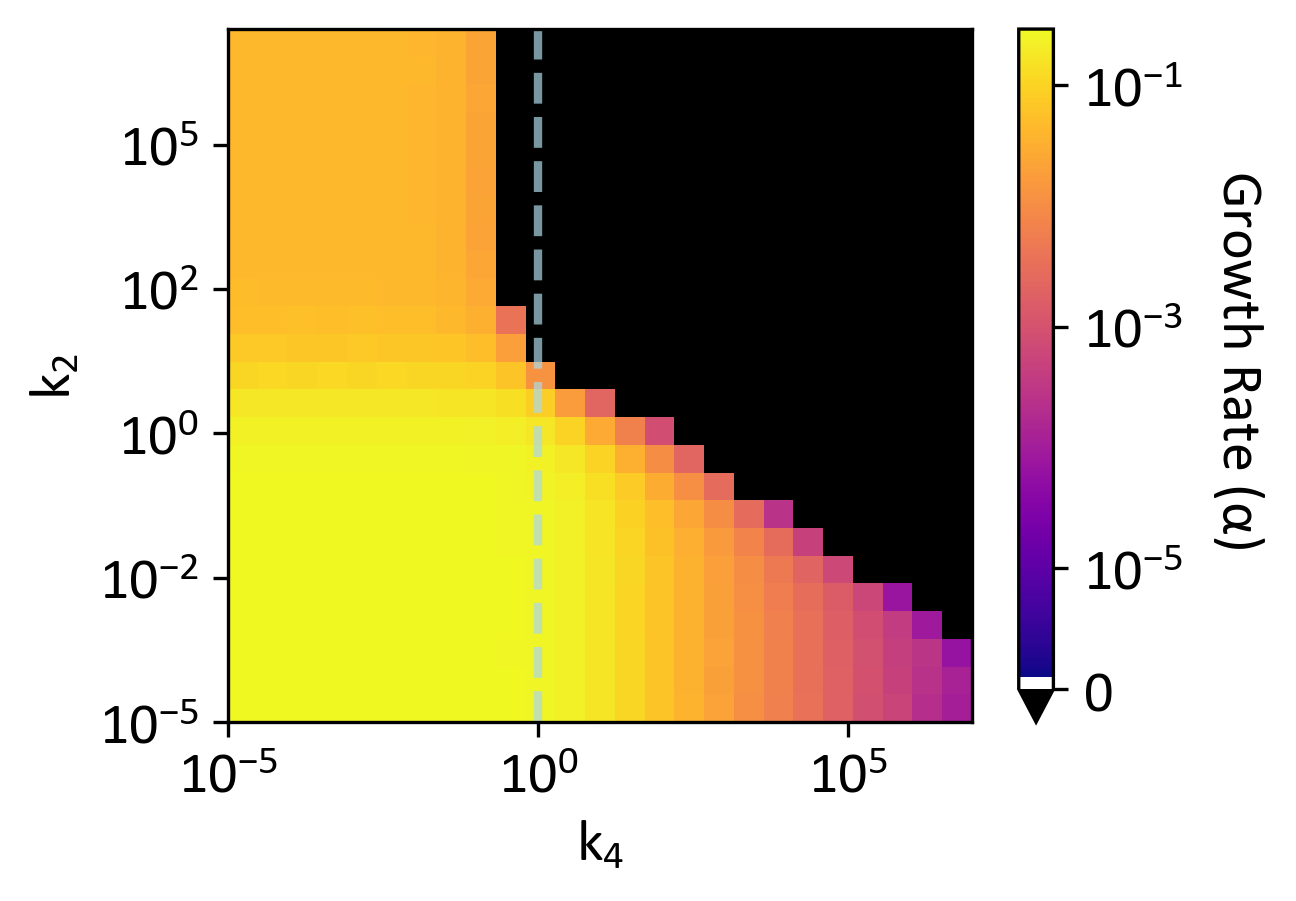
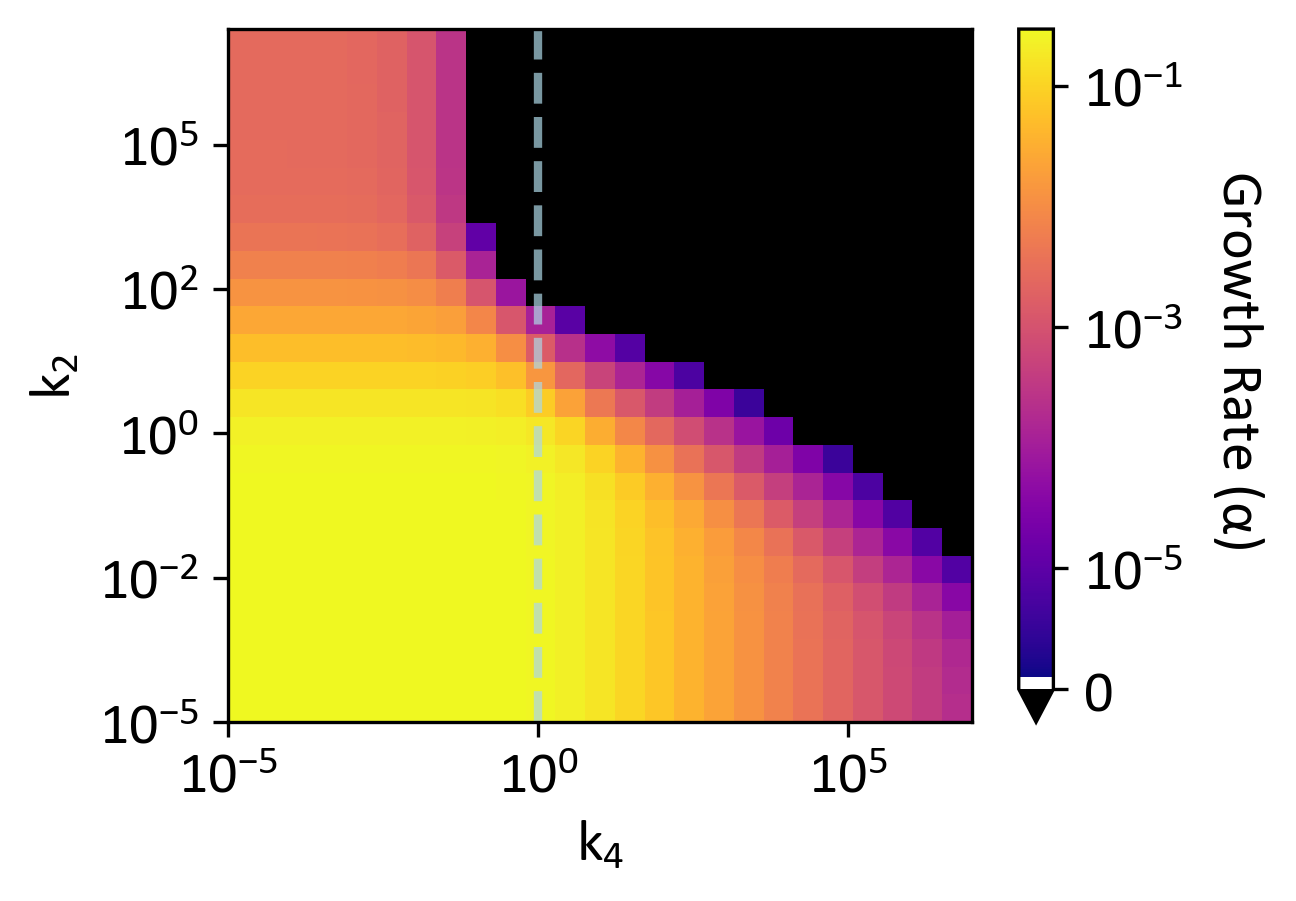
test thermodyn

Changed region(s): [[0.1543, 0.0311, 0.7716, 0.7458], [0.8642, 0.3418, 0.9259, 0.3729]]

diff --git a/simulations/try.py b/simulations/try.py
@@ -1,24 +1,44 @@
+# TEST CODE TO SEE RESULTS USING THE DETERMINISTIC APPROACH
 # TO GENERATE THE PKL FILES RUN "k_sweep_2d_pkl_generator.py"
 
 import numpy as np
 import pickle
 import multiprocessing as mp
 import os
-import sys
 import time
+import warnings
+from scipy.integrate import solve_ivp
 
 current_dir = os.path.dirname(os.path.abspath(__file__))
 project_root = os.path.dirname(current_dir)
-if project_root not in sys.path:
-    sys.path.append(project_root)
 
-from src.fun_gilles import *
+# --- 1. ODE SYSTEM ---
 
-# --- 1. WORKER FUNCTIONS ---
+def odes_intermediates(t, X, K_intermediates, fi):
+    """Deterministic system of ODEs for the minimal autocatalytic cycle."""
+    V, ab, cd, acd, cab = X
+    
+    # Food concentrations (constant)
+    a, b, c, d = 1.0, 1.0, 1.0, 1.0
+    k1, k2, k3, k4, k5, k6, k7, k8 = K_intermediates
+    
+    # Volume derivative
+    dVdt = (V / fi) * (k3 * b * acd + k7 * d * cab - k4 * ab * cd - k8 * ab * cd)
+    
+    # Species derivatives
+    dabdt = k3 * b * acd + k6 * cab + k7 * cab * d - k4 * ab * cd - k5 * ab * c - k8 * cd * ab - (ab / V) * dVdt
+    dcddt = k3 * b * acd + k7 * cab * d + k2 * acd - k4 * ab * cd - k1 * a * cd - k8 * cd * ab - (cd / V) * dVdt
+    dacddt = k4 * ab * cd + k1 * a * cd - k3 * b * acd - k2 * acd - (acd / V) * dVdt
+    dcabdt = k5 * ab * c + k8 * cd * ab - k6 * cab - k7 * cab * d - (cab / V) * dVdt
+    
+    return [dVdt, dabdt, dcddt, dacddt, dcabdt]
 
-def _get_alpha_from_vectors(times, volumes, values_used= None):
+
+# --- 2. WORKER FUNCTIONS ---
+
+def _get_alpha_from_vectors(times, volumes, values_used=None):
     """Calculates alpha and R^2 directly from vectors to save memory."""
-    if len(volumes) < 10:
+    if len(volumes) < 10 or np.any(volumes <= 0):
         return 0.0, 0.0
         
     start_idx = round(len(volumes) / 5) if values_used is None else 0
@@ -42,9 +62,9 @@ def _get_alpha_from_vectors(times, volumes, values_used= None):
     return m_fit, R_squared
 
 def run_2d_simulation(args):
-    """Worker: Runs simulation and IMMEDIATELY extracts Alpha/R2 to save RAM."""
-    (row_idx, col_idx, rep_id, k_y_val, k_x_val, k_y_index, k_x_index, 
-     abundances_init, m, k_types, base_k, c, V_init, iterations, c_reactants, threshold) = args
+    """Worker: Runs deterministic simulation and extracts Alpha/R2."""
+    (row_idx, col_idx, k_y_val, k_x_val, k_y_index, k_x_index, 
+     X_init, base_k, fi, t_span, t_eval) = args
     
     # Create a fresh copy of the kinetic constants and inject the sweep values
     k_local = base_k.copy()
@@ -52,56 +72,73 @@ def run_2d_simulation(args):
     k_local[k_x_index] = k_x_val
     
     try:
-        a, t, v = gillespieProtocell(
-            abundances_init, m, k_types, k_local, c, V_init, iterations, c_reactants, threshold
-        )
+        # Ignore RuntimeWarnings for zero division or overflow during ODE solving
+        with warnings.catch_warnings():
+            warnings.simplefilter("ignore")
+            
+            # Solve the ODE using the BDF method (best for stiff chemical systems)
+            res = solve_ivp(
+                odes_intermediates, 
+                t_span, 
+                X_init, 
+                method='BDF', 
+                t_eval=t_eval, 
+                args=(k_local, fi)
+            )
+            
+        if not res.success:
+            return (row_idx, col_idx, 0.0, 0.0)
+
+        t = res.t
+        v = res.y[0] # Volume is the first variable in the X array
+        
         alpha, r2 = _get_alpha_from_vectors(t, v, values_used=1)
         
-        return (row_idx, col_idx, rep_id, alpha, r2)
+        return (row_idx, col_idx, alpha, r2)
         
     except Exception as e:
-        # If it fails (e.g. probability 0), return 0 alpha and 0 R2
-        return (row_idx, col_idx, rep_id, 0.0, 0.0)
+        # If integration fails, return 0
+        return (row_idx, col_idx, 0.0, 0.0)
 
 
-# --- 2. MAIN EXECUTION ---
+# --- 3. MAIN EXECUTION ---
 
 def main():
-    print("Initializing 2D Parameter Sweep...")
+    print("Initializing Deterministic 2D Parameter Sweep...")
     
     # --- SETUP SIMULATION PARAMETERS ---
-    file_path = os.path.join(project_root, 'examples', 'reactions_autocat.txt')
-    reactions = read_file(file_path)
-    header = get_header(file_path)
-    species = obtain_species(reactions)
-    c = c_matrix(reactions, species, header)
-    c_reactants = reactants(reactions, species, header)
-    k_types = reactions[:, -1]
-    m = reactions.shape[0]
+    # Initial conditions from TFM (V0=100, [ab]0=0.5, [cd]0=0.5)
+    V_init = 100.0
+    ab_init = 0.5
+    cd_init = 0.5
+    acd_init = 0.0
+    cab_init = 0.0
     
-    # Base parameters
+    X_init = [V_init, ab_init, cd_init, acd_init, cab_init]
+    
+    # fi calculation: Sum of initial concentrations
+    fi = ab_init + cd_init + acd_init + cab_init
+    
+    # Base parameters (k1 through k8)
     base_k = [1.0] * 8
-    V_init = 1000.0
-    iterations = int(1e6)
-    threshold = None
     
-    # Standard initial conditions for autocat
-    abundances_init = np.zeros((1, len(species)))
-    abundances_init[0, :4] = 1.0 * V_init 
-    abundances_init[0, 4] = 1.0 * V_init # ab0 = 1
+    # Time limits for integration
+    t_span = (0, 500)
+    t_eval = np.linspace(t_span[0], t_span[1], 1000)
     
     # --- DEFINE THE 2D SWEEP ---
     k_change = np.logspace(-5, 7, 25)
-    replicates_per_condition = 1
     
     # Target indices in the 'k' array 
-    # for k2 and k4 keep the following lines
+    # For k2 and k4 (index 1 and 3)
     k_y_index = 1 
     k_x_index = 3 
-    # for k1 and k3 keep the following lines
+    
+    # For k1 and k3 uncomment below:
     # k_y_index = 0
     # k_x_index = 2    
-    prefix = f"sweep_k{k_y_index}_k{k_x_index}"
+    
+    prefix = f"sweep_k{k_y_index}_k{k_x_index}_deterministic"
     out_dir = os.path.join(project_root, 'data_archive')
     os.makedirs(out_dir, exist_ok=True)
     
@@ -119,42 +156,35 @@ def main():
     tasks = []
     for row_idx, k_y_val in enumerate(k_change):
         for col_idx, k_x_val in enumerate(k_change):
-            for rep in range(replicates_per_condition):
-                task_id = (row_idx, col_idx, rep)
-                
-                # Only add to tasks if it hasn't been done yet
-                if task_id not in completed_tasks:
-                    task = (row_idx, col_idx, rep, k_y_val, k_x_val, k_y_index, k_x_index, 
-                            abundances_init, m, k_types, base_k, c, V_init, iterations, c_reactants, threshold)
-                    tasks.append(task)
+            
+            task_id = (row_idx, col_idx)
+            
+            if task_id not in completed_tasks:
+                task = (row_idx, col_idx, k_y_val, k_x_val, k_y_index, k_x_index, 
+                        X_init, base_k, fi, t_span, t_eval)
+                tasks.append(task)
                 
     total_new_tasks = len(tasks)
     print(f"Total simulations remaining to run: {total_new_tasks}")
     
     if total_new_tasks > 0:
-        # --- EXECUTE IN PARALLEL (Optimized for OS responsiveness) ---
-        # Leave at least 2 cores free for your operating system so it doesn't freeze.
+        # --- EXECUTE IN PARALLEL ---
         num_cores = max(1, mp.cpu_count() - 1) 
         print(f"Firing up {num_cores} CPU cores ")
         start_time = time.time()
         
         with mp.Pool(processes=num_cores) as pool:
-            # chunksize=10 tells Python to hand out jobs in batches rather than 1 by 1.
-            # This drastically reduces overhead and stops your computer from choking on communication.
-            for i, result in enumerate(pool.imap_unordered(run_2d_simulation, tasks, chunksize=10)):
-                row_idx, col_idx, rep_id, alpha, r2 = result
+            for i, result in enumerate(pool.imap_unordered(run_2d_simulation, tasks, chunksize=5)):
+                row_idx, col_idx, alpha, r2 = result
                 
-                # Save to our dictionary
-                completed_tasks[(row_idx, col_idx, rep_id)] = (alpha, r2)
+                completed_tasks[(row_idx, col_idx)] = (alpha, r2)
                 
-                # Save the checkpoint to disk every 100 runs so we don't lose progress if it crashes
-                if (i + 1) % 100 == 0:
+                if (i + 1) % 50 == 0:
                     percent = ((i+1) / total_new_tasks) * 100
                     print(f"Completed {i + 1}/{total_new_tasks} remaining runs ({percent:.1f}%)...")
                     with open(checkpoint_file, "wb") as f:
                         pickle.dump(completed_tasks, f)
         
-        # Final checkpoint save when all tasks are done
         with open(checkpoint_file, "wb") as f:
             pickle.dump(completed_tasks, f)
             
@@ -166,29 +196,21 @@ def main():
     # --- RECONSTRUCT FINAL GRIDS FROM THE CHECKPOINT ---
     print("\nCalculating final grids...")
     grid_shape = (len(k_change), len(k_change))
-    alpha_sum_grid = np.zeros(grid_shape)
-    r2_sum_grid = np.zeros(grid_shape)
-    counts_grid = np.zeros(grid_shape)
+    alpha_grid = np.zeros(grid_shape)
+    r2_grid = np.zeros(grid_shape)
 
-    for (row, col, rep), (alpha, r2) in completed_tasks.items():
-        alpha_sum_grid[row, col] += alpha
-        r2_sum_grid[row, col] += r2
-        counts_grid[row, col] += 1
-
-    # Avoid division by zero
-    counts_grid[counts_grid == 0] = 1 
-    
-    alpha_mean_grid = alpha_sum_grid / counts_grid
-    r2_mean_grid = r2_sum_grid / counts_grid
+    for (row, col), (alpha, r2) in completed_tasks.items():
+        alpha_grid[row, col] = alpha
+        r2_grid[row, col] = r2
     
     alpha_file = os.path.join(out_dir, f"alpha_{prefix}.pkl")
     r2_file = os.path.join(out_dir, f"r2_{prefix}.pkl")
     
     with open(alpha_file, "wb") as f:
-        pickle.dump(alpha_mean_grid, f)
+        pickle.dump(alpha_grid, f)
         
     with open(r2_file, "wb") as f:
-        pickle.dump(r2_mean_grid, f)
+        pickle.dump(r2_grid, f)
 
     print(f"Saved to:\n - {alpha_file}\n - {r2_file}")
 

diff --git a/simulations/k_sweep_pkl_generator.py b/simulations/k_sweep_pkl_generator.py
@@ -106,14 +106,14 @@ def main():
     
     # You can adjust these logspaces based on your exact desired limits!
     # Sweep for k1 (Index 0): From 10^-4 to 10^7
-    k0_conditions = np.logspace(-4, 7, 23)
+    # k0_conditions = np.logspace(-4, 7, 23)
     
     # Sweep for k2 (Index 1): From 10^-4 to 10^7
     k1_conditions = np.logspace(-4, 7, 23)
     
     # --- 3. EXECUTE ---
-    run_sweep_for_index(target_k_index=0, k_conditions=k0_conditions, 
-                        replicates_per_condition=replicates_per_condition, base_params=base_params)
+    # run_sweep_for_index(target_k_index=0, k_conditions=k0_conditions, 
+    #                     replicates_per_condition=replicates_per_condition, base_params=base_params)
                         
     run_sweep_for_index(target_k_index=1, k_conditions=k1_conditions, 
                         replicates_per_condition=replicates_per_condition, base_params=base_params)

diff --git a/simulations/k_sweep_2d.py b/simulations/k_sweep_2d.py
@@ -40,8 +40,8 @@ if __name__ == "__main__":
     # 1. SWEEP: k2 vs k4 (using files alpha_sweep_k1_k3 / r2_sweep_k1_k3)
     # ============================================================
     print("Processing k2 vs k4 sweep...")
-    path_alpha_1_3 = os.path.join(project_root, "data_archive", "alpha_sweep_k1_k3.pkl")
-    path_r2_1_3    = os.path.join(project_root, "data_archive", "r2_sweep_k1_k3.pkl")
+    path_alpha_1_3 = os.path.join(project_root, "data_archive", "alpha_sweep_k1_k3_deterministic.pkl")
+    path_r2_1_3    = os.path.join(project_root, "data_archive", "r2_sweep_k1_k3_deterministic.pkl")
     
     k2_vs_k4 = load_alpha_grid(path_alpha_1_3)
     r2_grid_1_3 = load_alpha_grid(path_r2_1_3)
